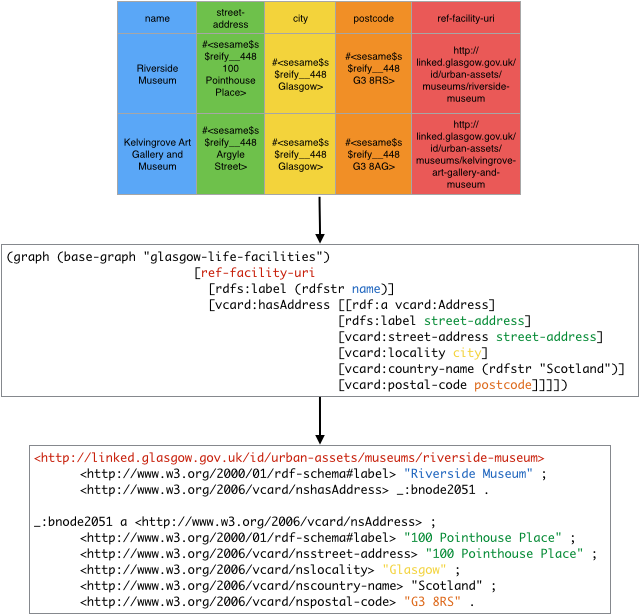
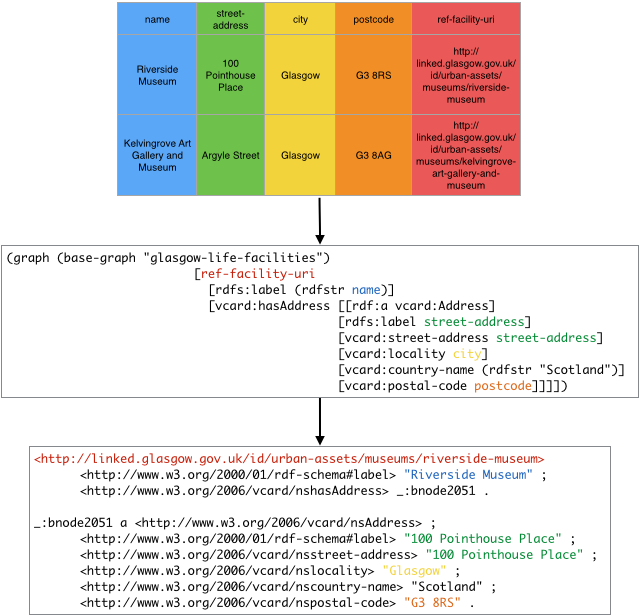
HT310 - fix graphify / re-explain binding 0.2

diff --git a/_howto/310_linked_data_template.md b/_howto/310_linked_data_template.md
@@ -7,45 +7,56 @@ title: Build a Linked Data template
 
 ## How to build a Linked Data template
 
-### Graphify
-We can define our template easily using the graphify function. We just need [to choose our ontologies](420_ontology_choice.html) and define, in the graphify function, the graph structure we want:
+### graph-fn
+We can define our templates easily using the graph-fn function. We just need [to choose our ontologies](420_ontology_choice.html) and define, in the graph-fn function, the graph structure we want:
 
 {% highlight clojure %}
-(defn make-linked-data-template
-  (let [processed-rows]
 
-         ((graphify [name street-address city postcode ref-facility-uri]
+((graph-fn [[name street-address city postcode ref-facility-uri]] ;; row binding
 
-                    (graph (base-graph "glasgow-life-facilities")
-                          [ref-facility-uri
-                            [rdfs:label (rdfstr name)]
-                            [vcard:hasAddress [[rdf:a vcard:Address]
-                                              [rdfs:label street-address]
-                                              [vcard:street-address street-address]
-                                              [vcard:locality city]
-                                              [vcard:country-name (rdfstr "Scotland")]
-                                              [vcard:postal-code postcode]]]])
-                    (graph...))
-                    processed-rows)))
+           (graph (base-graph "glasgow-life-facilities")
+             [ref-facility-uri
+               [rdfs:label (rdfstr name)]
+               [vcard:hasAddress [[rdf:a vcard:Address]
+                                  [rdfs:label street-address]
+                                  [vcard:street-address street-address]
+                                  [vcard:locality city]
+                                  [vcard:country-name (rdfstr "Scotland")]
+                                  [vcard:postal-code postcode]]]])
+            (graph...))
+  dataset)
 {% endhighlight %}
 
 ![Linked Data template](/assets/310_linked_data_template_3.png)
 
-### Names
+### Row binding
 
-As a first step: we have defined explicit names for our columns:
+As a first step: we have defined the binding. Rows are passed to the function one at a time as hash-maps, which can be destructured via Clojure's standard destructuring syntax. Additionally destructuring can be done on row-indicies (when a vector form is supplied) or column names (when a hash-map form is supplied).
 
 {% highlight clojure %}
-(defn make-linked-data-template
-  (let [processed-rows]
 
-         ((graphify [name street-address city postcode ref-facility-uri]
-                    (...))
-                    processed-rows)))
+(let [ds (make-dataset [[1 2 3]] [:a :b :c])]
+  ((graph-fn [{:keys [a b c]}]
+             (graph "http:///foo.com/"
+               [a b c])
+
+             (graph "http:///bar.com/"
+               [a b c]))
+   ds)))
+
+(let [ds (make-dataset [[1 2 3]])]
+  ((graph-fn [{:strs [a b c]}]
+              (graph "http:///foo.com/"
+               [a b c]))
+   ds)))
+
+(let [ds (make-dataset [:a "a" "c"] [[1 2 3]])]
+  ((graph-fn [{:keys [a]
+               :strs [c]
+                a-str "a"}]
+
+              (graph "http:///foo.com/"
+                [a a-str c]))
+  ds)))
+
 {% endhighlight %}
-
-![Linked Data template](/assets/310_linked_data_template_1.png)
-
-and we get an easy access to data in our graph fragments definition.
-
-![Linked Data template](/assets/310_linked_data_template_2.png)
